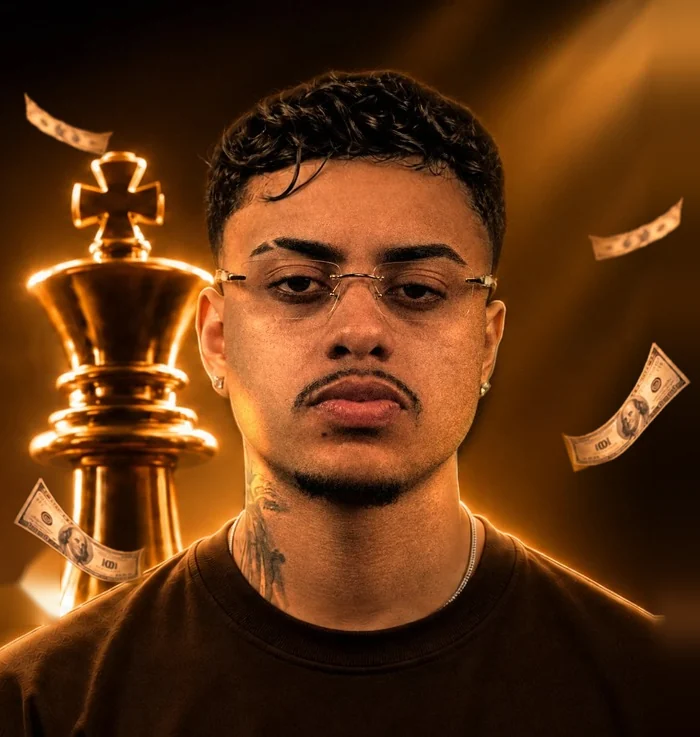
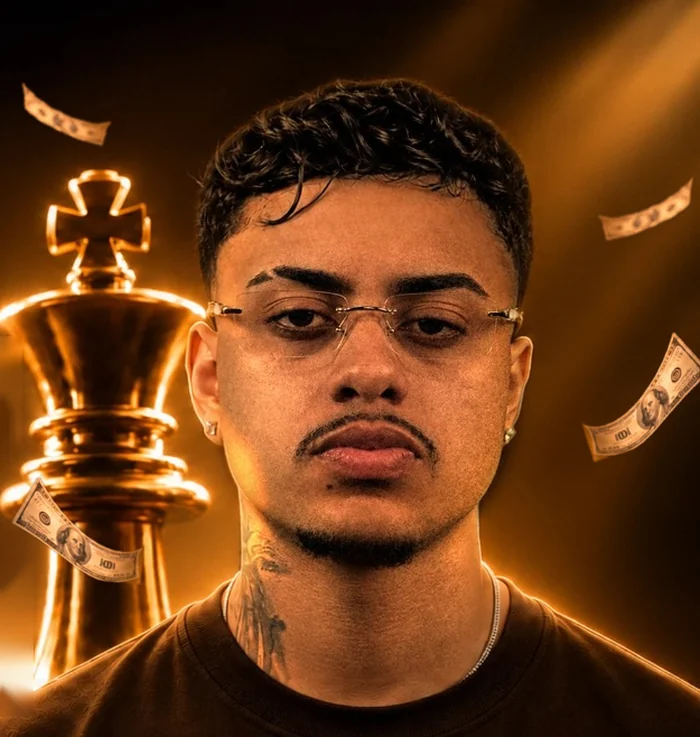
Hero mobile: Arthur maior, corpo encostando nas laterais, sem extensão à direita
Claude-Session: https://claude.ai/code/session_01BLTcZpwwpWmSLn86UuK6mC

diff --git a/educacional.html b/educacional.html
@@ -11,11 +11,11 @@
 <meta name="theme-color" content="#070605">
 
 <link rel="preload" as="image" href="assets/hero-desktop.webp?v=1795059457" media="(min-width: 1080px)">
-<link rel="preload" as="image" href="assets/hero-mobile.webp?v=1795060278" media="(max-width: 1079px)">
+<link rel="preload" as="image" href="assets/hero-mobile.webp?v=1795060371" media="(max-width: 1079px)">
 <link rel="preload" as="font" type="font/woff2" href="assets/fonts/Syne-Bold.woff2" crossorigin>
 <link rel="preload" as="font" type="font/woff" href="assets/fonts/InterTight-Variable.woff" crossorigin>
 
-<link rel="stylesheet" href="assets/site.css?v=1795060278">
+<link rel="stylesheet" href="assets/site.css?v=1795060371">
 </head>
 <body data-ribbon-words="Autoridade|Eventos|Experiências|Estratégia|Posicionamento|Conhecimento|Expansão|Educação">
 

diff --git a/index.html b/index.html
@@ -11,11 +11,11 @@
 <meta name="theme-color" content="#070605">
 
 <link rel="preload" as="image" href="assets/hero-desktop.webp?v=1795059457" media="(min-width: 1080px)">
-<link rel="preload" as="image" href="assets/hero-mobile.webp?v=1795060278" media="(max-width: 1079px)">
+<link rel="preload" as="image" href="assets/hero-mobile.webp?v=1795060371" media="(max-width: 1079px)">
 <link rel="preload" as="font" type="font/woff2" href="assets/fonts/Syne-Bold.woff2" crossorigin>
 <link rel="preload" as="font" type="font/woff" href="assets/fonts/InterTight-Variable.woff" crossorigin>
 
-<link rel="stylesheet" href="assets/site.css?v=1795060278">
+<link rel="stylesheet" href="assets/site.css?v=1795060371">
 </head>
 <body data-ribbon-words="Autoridade|Eventos|Educação|Identidade visual|Instagram|Sites|Vídeos|Posicionamento">
 

diff --git a/assets/site.css b/assets/site.css
@@ -394,7 +394,7 @@ section{position:relative}
 @media (max-width:1079px){
   .hero{display:block;min-height:0;padding:0 0 110px}
   .hero__bg{position:relative;bottom:auto;right:auto;height:min(105vw,620px);width:min(100%,calc(min(105vw,620px) * .95));margin-inline:auto;
-    background:url("hero-mobile.webp?v=1795060278") center / cover no-repeat;
+    background:url("hero-mobile.webp?v=1795060371") center / cover no-repeat;
     -webkit-mask-image:linear-gradient(90deg,transparent 0%,#000 16%,#000 84%,transparent 100%);
             mask-image:linear-gradient(90deg,transparent 0%,#000 16%,#000 84%,transparent 100%)}
   .hero__bg::after{background:linear-gradient(0deg,var(--bg) 0%,rgba(7,6,5,0) 26%)}

diff --git a/digital.html b/digital.html
@@ -14,7 +14,7 @@
 <link rel="preload" as="font" type="font/woff2" href="assets/fonts/Syne-Bold.woff2" crossorigin>
 <link rel="preload" as="font" type="font/woff" href="assets/fonts/InterTight-Variable.woff" crossorigin>
 
-<link rel="stylesheet" href="assets/site.css?v=1795060278">
+<link rel="stylesheet" href="assets/site.css?v=1795060371">
 </head>
 <body data-ribbon-words="Identidade visual|Design|Instagram|Sites|Vídeos|Captação|Posicionamento|Presença digital">
 
